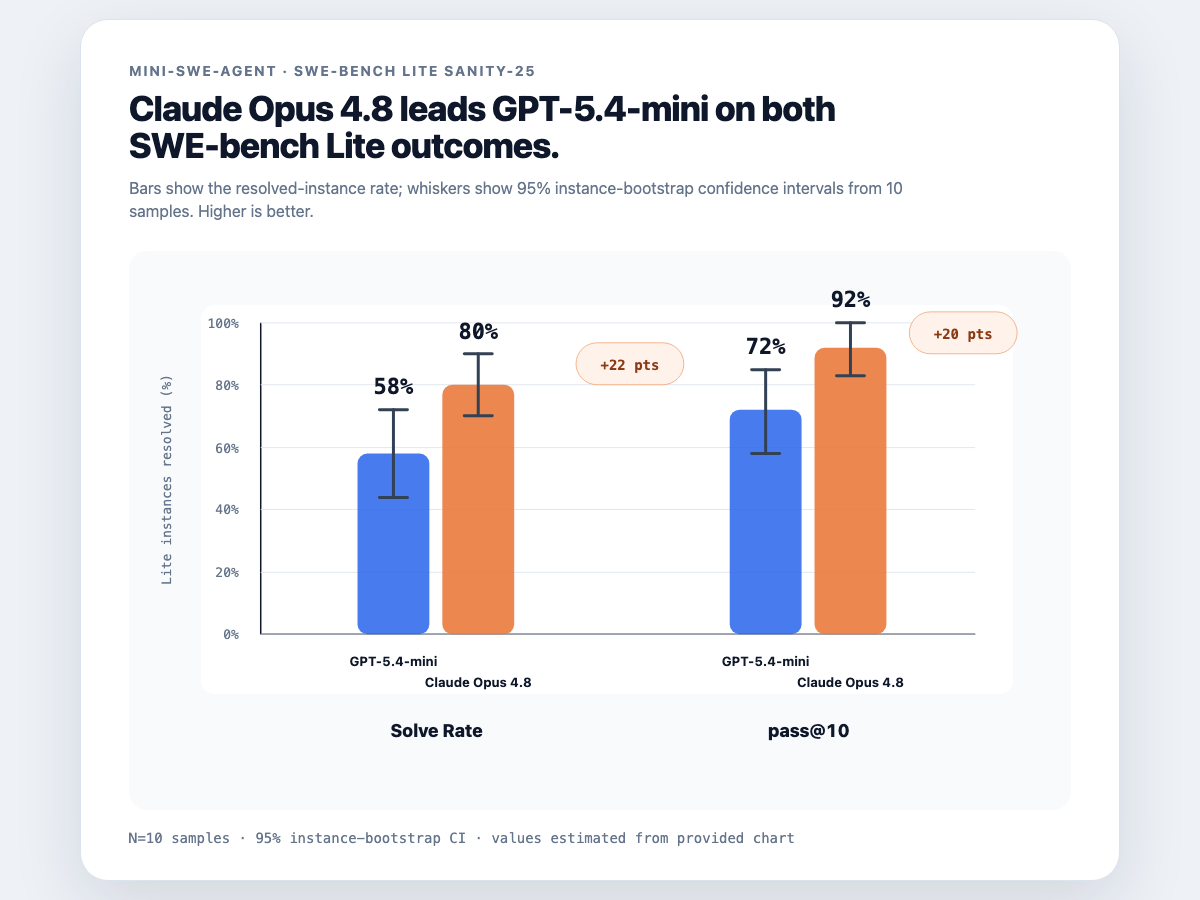
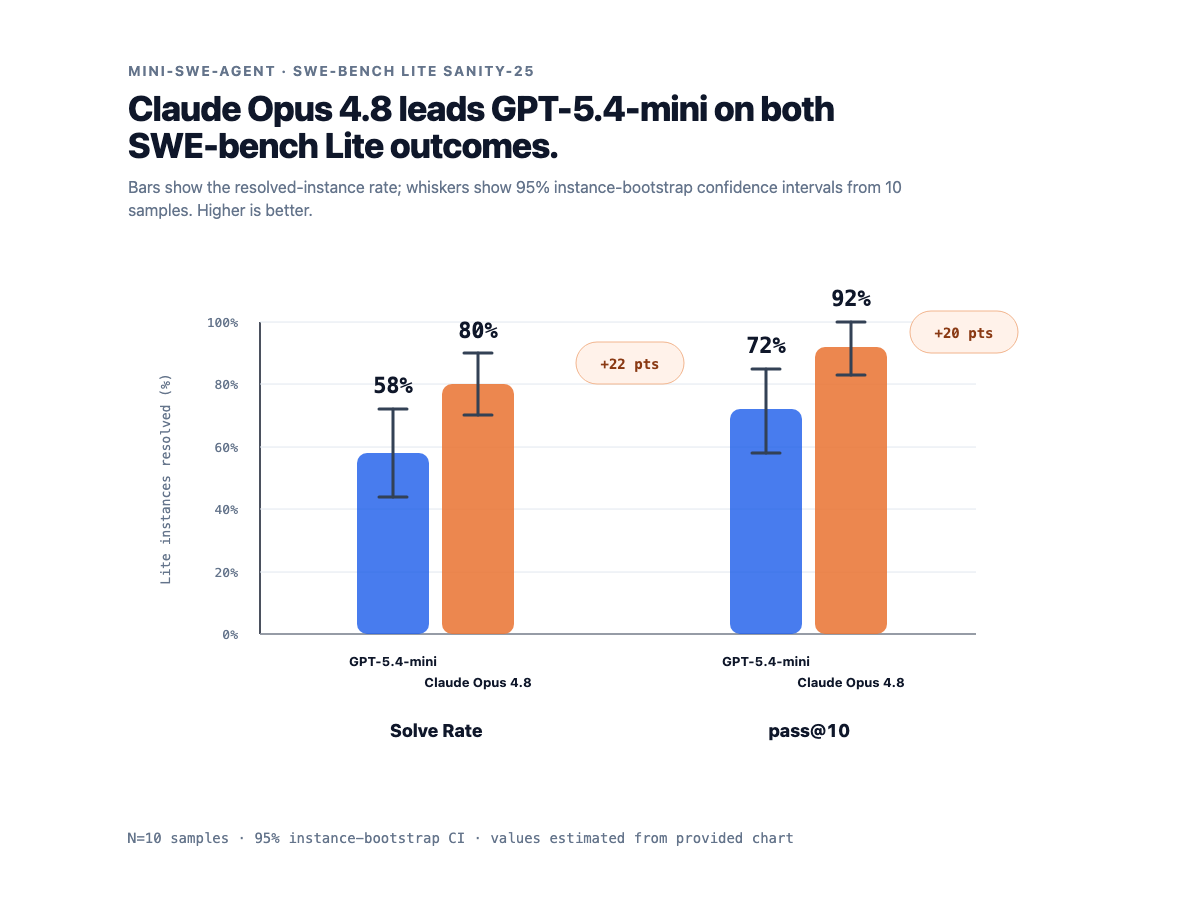
Make benchmark example preview transparent
Remove accidental page and card backgrounds from the SWE-bench example and regenerate the README preview with alpha transparency.

diff --git a/examples/swe_bench_lite_comparison.html b/examples/swe_bench_lite_comparison.html
@@ -25,7 +25,7 @@
       min-height: 100vh;
       display: grid;
       place-items: center;
-      background: #eef2f7;
+      background: transparent;
       color: var(--ink);
       font-family: Sora, Inter, ui-sans-serif, system-ui, -apple-system, BlinkMacSystemFont, "Segoe UI", sans-serif;
     }
@@ -33,10 +33,10 @@
     .card {
       width: 1040px;
       padding: 42px 48px 34px;
-      background: var(--paper);
-      border: 1px solid #dbe3ee;
-      border-radius: 28px;
-      box-shadow: 0 24px 70px rgba(15, 23, 42, 0.12);
+      background: transparent;
+      border: 0;
+      border-radius: 0;
+      box-shadow: none;
     }
 
     .eyebrow {
@@ -136,9 +136,6 @@
     <svg viewBox="0 0 944 560" role="img" aria-labelledby="title desc" xmlns="http://www.w3.org/2000/svg">
       <title id="title">SWE-bench Lite comparison between GPT-5.4-mini and Claude Opus 4.8</title>
       <desc id="desc">Grouped bar chart. GPT-5.4-mini scores 58 percent solve rate and 72 percent pass at 10. Claude Opus 4.8 scores 80 percent solve rate and 92 percent pass at 10. Confidence intervals are shown for each value.</desc>
-
-      <rect x="0" y="0" width="944" height="560" rx="18" fill="#f8fafc" />
-      <rect x="72" y="54" width="814" height="390" rx="14" fill="#ffffff" />
 
       <line x1="132" y1="384" x2="848" y2="384" stroke="#0f172a" stroke-width="1.5" />
       <line x1="132" y1="72" x2="132" y2="384" stroke="#0f172a" stroke-width="1.5" />

diff --git a/README.md b/README.md
@@ -127,7 +127,7 @@ For complex plots, use Python as a geometry engine, not as the art director:
 
 ![SWE-bench Lite model comparison](examples/swe_bench_lite_comparison.png)
 
-`examples/swe_bench_lite_comparison.html` is a compact benchmark-card example: a claim-first title, grouped bars, visible uncertainty, direct value labels, and a source note in one export-ready HTML/SVG file.
+`examples/swe_bench_lite_comparison.html` is a compact benchmark-card example: a claim-first title, grouped bars, visible uncertainty, direct value labels, and a source note in one export-ready HTML/SVG file. The embedded preview is a transparent PNG generated from that HTML.
 
 Open these directly in a browser:
 